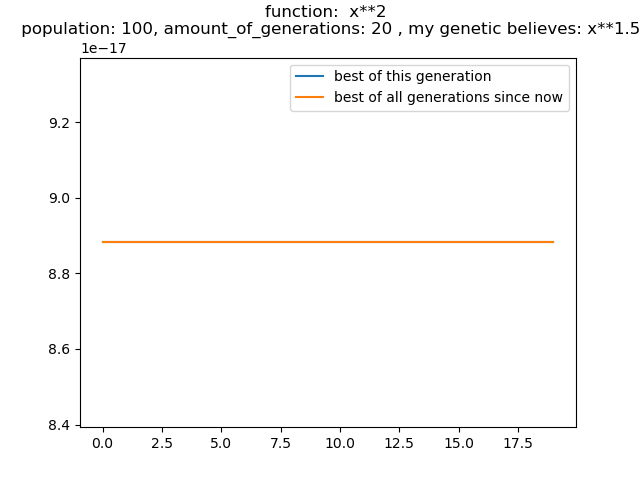
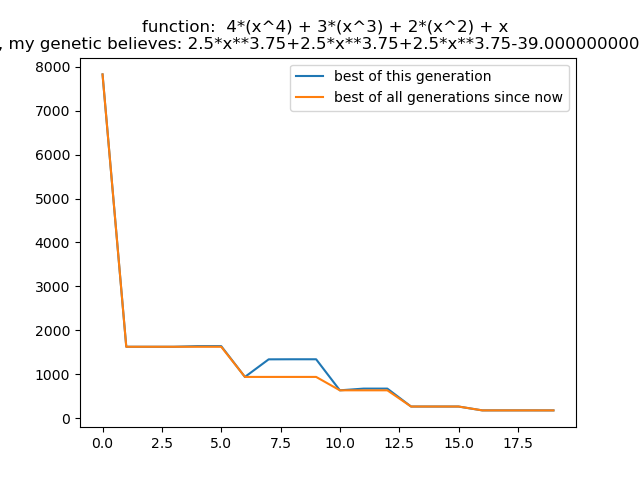
getting result

diff --git a/program.py b/program.py
@@ -13,20 +13,21 @@ if __name__ == "__main__":
     # parameters
     amount = 100
 
-    amount_of_trees = 100
+    # population size (0)
+    amount_of_trees = 200
     max_depth = 6
 
     k = 3 # k tournoment parameter
     pc = 0.5 # the probblity of cross-over
     pm = 0.5 # the probblity of mutation
 
-    amount_of_generations = 20
+    amount_of_generations = 100
     
     # power_domain = (0.25, 4)
     # power_rate = 0.25
     
     # using domain
-    f = open('in_out1.txt', 'r')
+    f = open('in_out2.txt', 'r')
     given_function = f.readline().split(':')[1]
     X = []
     Y = []
@@ -45,8 +46,10 @@ if __name__ == "__main__":
     x_generation_number = []
     y_average_of_each = []
     y_best_mae_of_each = []
-    y_best_of_all = []
+    y_best_mae_of_all = []
     y_best_tree = []
+    
+    # y_last_best = 0
     
     for i in range(amount_of_generations):
     
@@ -58,8 +61,9 @@ if __name__ == "__main__":
         x_generation_number.append(i)
         y_best_tree.append(best_tree)
         y_best_mae_of_each.append(best_mae)
-        y_best_of_all.append(min(y_best_mae_of_each))
+        y_best_mae_of_all.append(min(y_best_mae_of_each))
         y_average_of_each.append(average_mae)
+
 
     final_best_tree = None
     mae = float('inf')
@@ -71,13 +75,15 @@ if __name__ == "__main__":
     fig, ax = plt.subplots()
     # plt.figure(figsize=(10,6))
     best_of_each,  = plt.plot(x_generation_number, y_best_mae_of_each, label='best of this generation')
-    best_of_all, = plt.plot(x_generation_number, y_best_of_all, label='best of all generations since now')
+    best_of_all, = plt.plot(x_generation_number, y_best_mae_of_all, label='best of all generations since now')
 
-    ax.set_title(f"function: {given_function} population: {amount_of_trees}, amount_of_generations: {amount_of_generations} , my genetic believes: {final_best_tree.in_order}")
+    # ax.text("last predicted y: ", min(y_best_of_all))
+    ax.set_title(f"function: {given_function}, population: {amount_of_trees}, amount_of_generations: {amount_of_generations} , my genetic believes: {final_best_tree.in_order}")
     ax.legend(handles=[best_of_each, best_of_all])
-    name = "result_3_" + str(amount_of_trees) + '.png'
+    name = "result_5_" + str(amount_of_trees) + '.png'
 
     print("the function that my genetic believes: ", final_best_tree.in_order)
+    print("best mae: ", min(y_best_mae_of_all))
 
     plt.savefig(name)
     plt.show()
@@ -88,7 +94,7 @@ if __name__ == "__main__":
     average_of_each, = plt.plot(x_generation_number, y_average_of_each, label='average of each generation')
     ax.set_title(f"function = {given_function}, population = {amount_of_trees}")
     ax.legend(handles=[average_of_each])
-    name = "average_2_" + str(amount_of_trees) + '.png'
+    name = "average_4_" + str(amount_of_trees) + '.png'
 
     plt.savefig(name)
     plt.show()

diff --git a/make_input_output.py b/make_input_output.py
@@ -7,22 +7,26 @@ def making_x_compare(domain, stop_size):
         i+=stop_size
     return x
 
-def making_y_compare(x):
+def making_y_compare1(x):
     y = [(i**2) for i in x]
+    return y
+
+def making_y_compare2(x):
+    y = [ (4*(i**4) + 3*(i**3) + 2*(i**2) + i) for i in x]
     return y
     
 
 if __name__ == "__main__":
     
-    f = open('in_out1.txt', 'w')
+    f = open('in_out2.txt', 'w')
 
-    f.write("our function is: x**2 \n")
+    f.write("our function is: 4*(x^4) + 3*(x^3) + 2*(x^2) + x \n")
 
     amount = 100
     stop_size = 0.1
     domain = (0.1, 10)
     x = making_x_compare(domain, stop_size)
-    y = making_y_compare(x)
+    y = making_y_compare2(x)
 
     for i in range(amount):
         f.write(f"{x[i]}, {y[i]}\n")

diff --git a/print_function.py b/print_function.py
@@ -1,0 +1,18 @@
+import numpy as np
+from matplotlib import pyplot as plt
+
+plt.rcParams["figure.figsize"] = [7.50, 3.50]
+plt.rcParams["figure.autolayout"] = True
+
+def f1(x):
+    return 4*(x**4) + 3*(x**3) + 2*(x**2) + x
+
+# def f2(x):
+    
+
+x = np.linspace(-10, 10, 100)
+
+plt.plot(x, f1(x), color='red')
+# plt.plot(x, f2(x), color='blue')
+
+plt.show()

diff --git a/tree.py b/tree.py
@@ -192,7 +192,7 @@ def calculating_mae(tree_list, X, Y):
         if (t.mae<best_mae):
             best_mae = t.mae
             best_tree = t
-        print(f"tree number {i} = {t.in_order} and its mae is = {t.mae}")
+        # print(f"tree number {i} = {t.in_order} and its mae is = {t.mae}")
         i += 1
 
     return mae_sum/i, best_mae, best_tree
